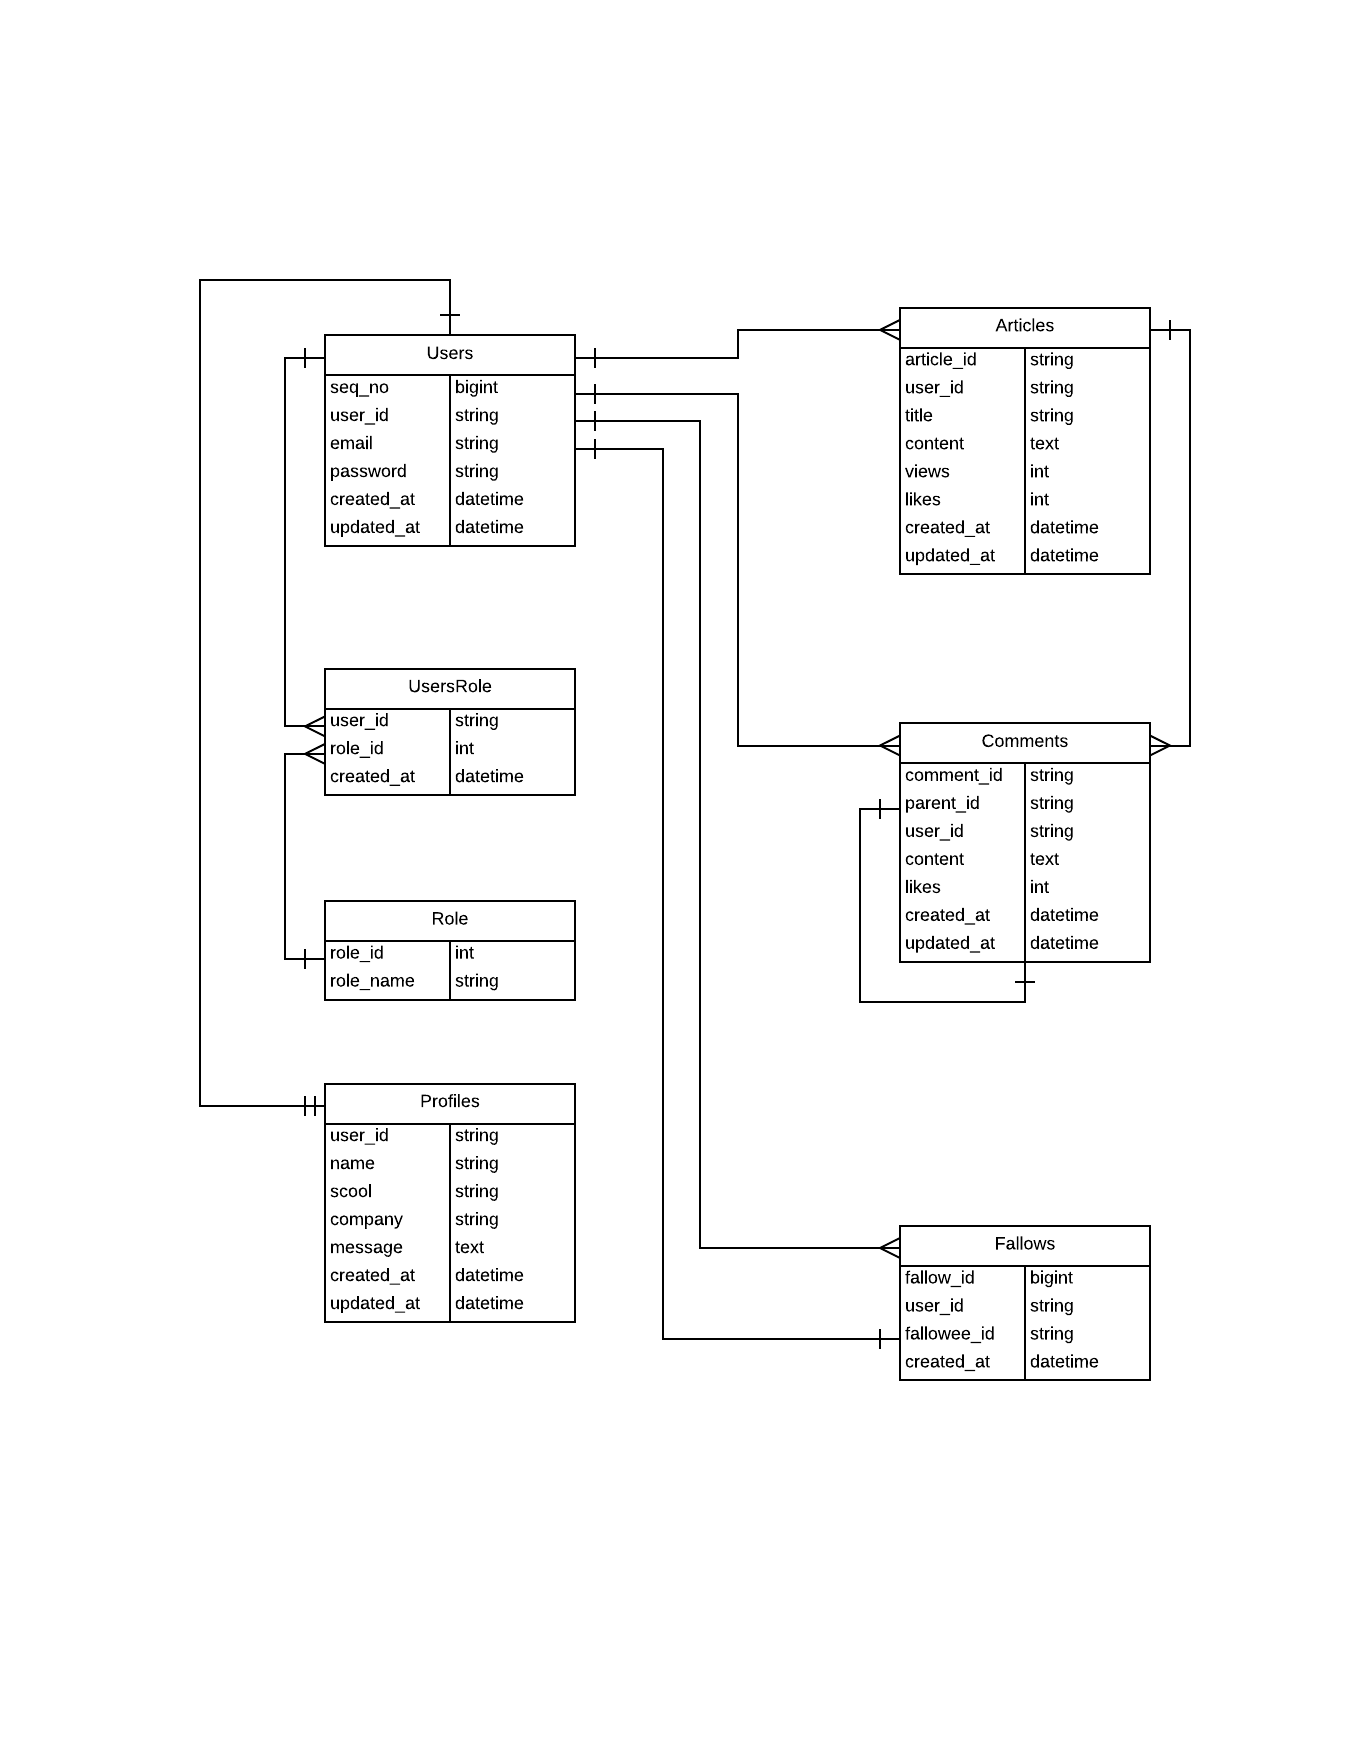
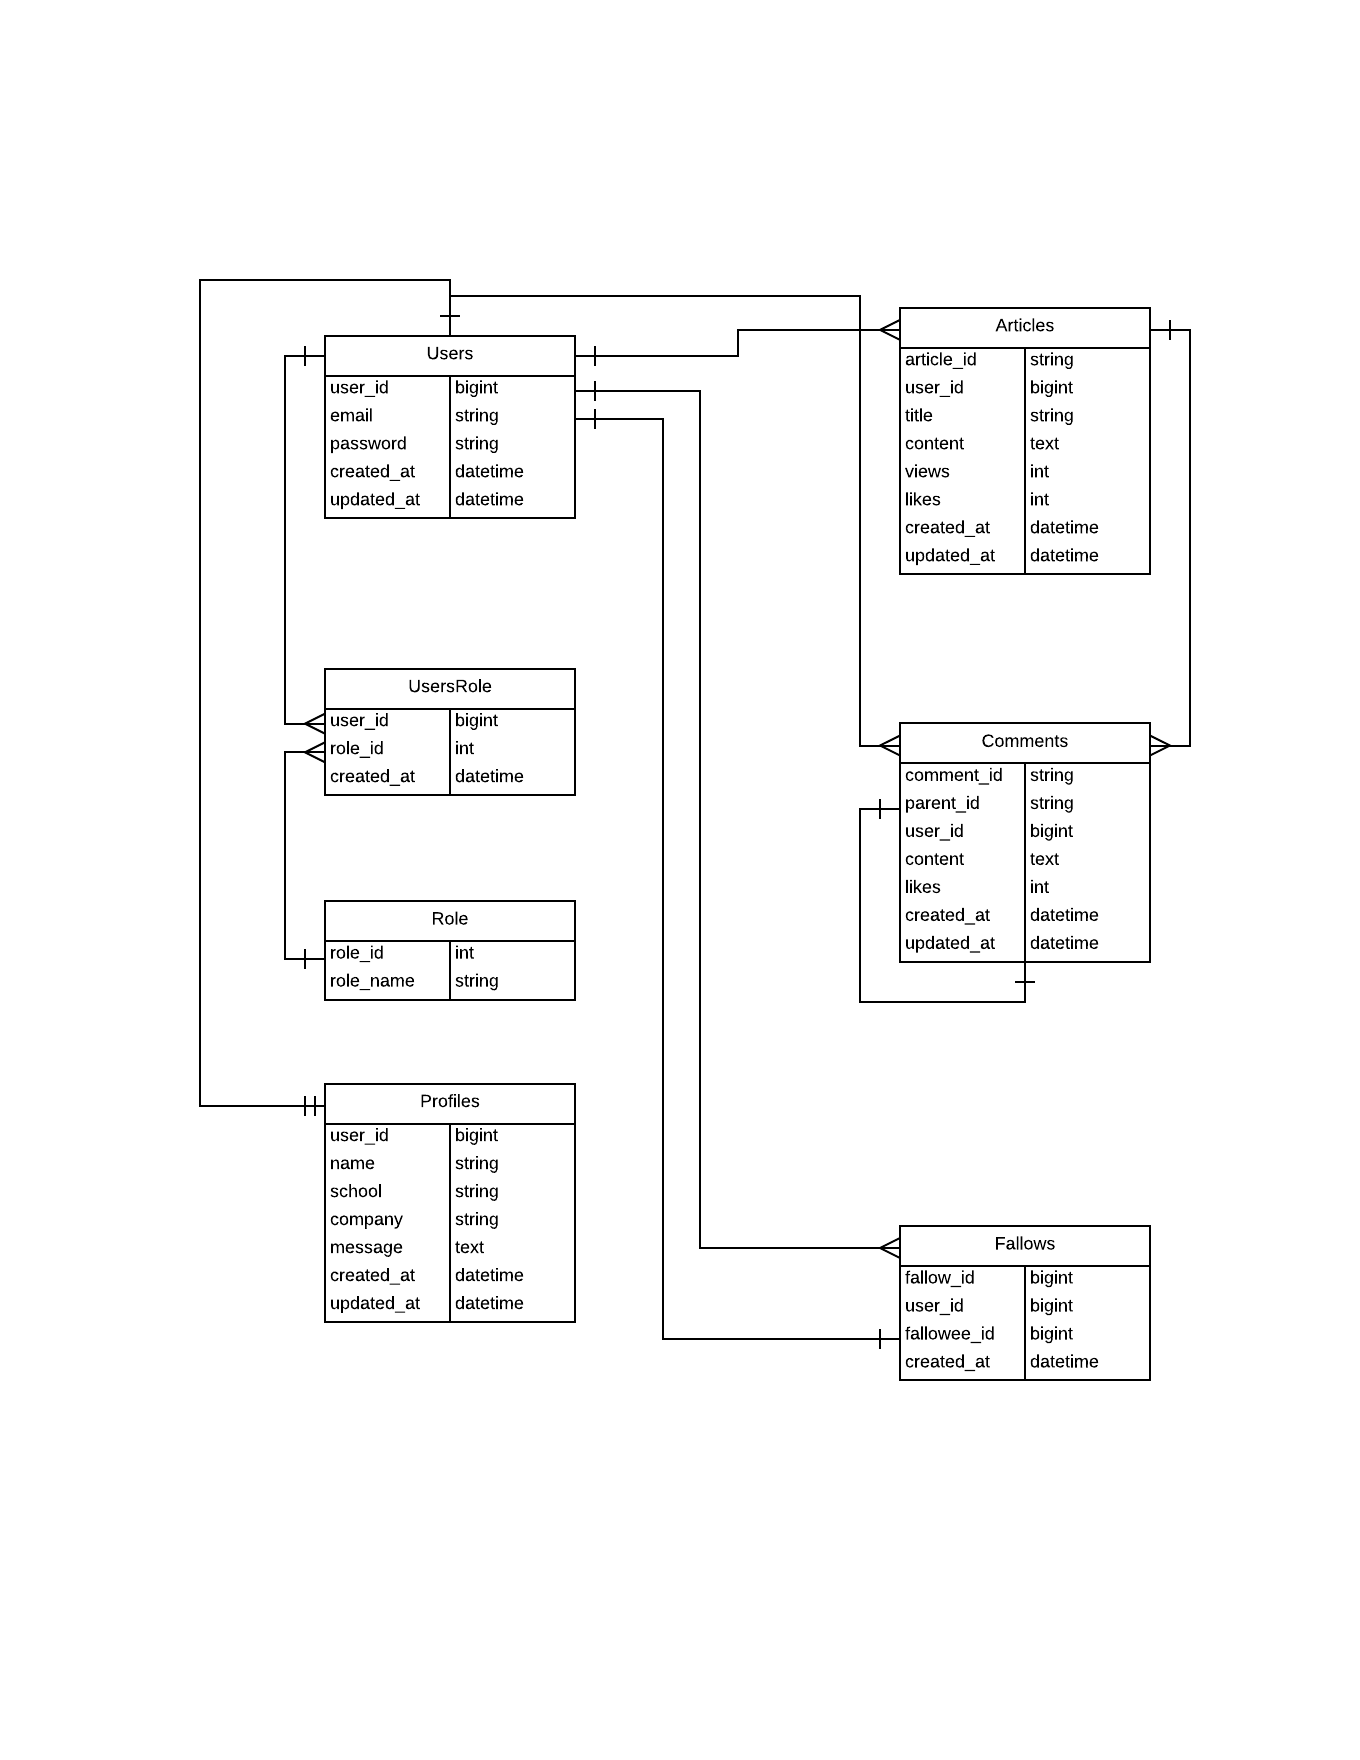
기본 설정 추가

diff --git a/src/test/java/com/yihoyoung/repository/UserRepositoryTest.java b/src/test/java/com/yihoyoung/repository/UserRepositoryTest.java
@@ -1,0 +1,37 @@
+package com.yihoyoung.repository;
+
+import org.junit.Before;
+import org.junit.Test;
+import org.junit.runner.RunWith;
+import org.springframework.beans.factory.annotation.Autowired;
+import org.springframework.boot.test.context.SpringBootTest;
+import org.springframework.test.context.junit4.SpringRunner;
+import com.yihoyoung.domain.User;
+
+import static org.assertj.core.api.Assertions.assertThat;
+
+/**
+ * Created by hoyounglee on 2016. 8. 6..
+ */
+@RunWith(SpringRunner.class)
+@SpringBootTest
+public class UserRepositoryTest {
+    @Autowired
+    public UserRepository userRepository;
+
+    private User user;
+
+    @Before
+    public void setting(){
+        user = new User();
+        user.setUserId(1L);
+        user.setEmail("yihoyoung@nate.com");
+        user.setPassword("password");
+    }
+
+    @Test
+    public void testCreateUser(){
+        User savedUser = userRepository.save(user);
+        assertThat(user).isEqualTo(savedUser);
+    }
+}

diff --git a/src/main/java/com/yihoyoung/domain/Article.java b/src/main/java/com/yihoyoung/domain/Article.java
@@ -1,0 +1,30 @@
+package com.yihoyoung.domain;
+
+import lombok.Data;
+
+import javax.persistence.Entity;
+import javax.persistence.Id;
+import java.sql.Timestamp;
+import java.util.UUID;
+
+/**
+ * Created by hoyounglee on 2016. 8. 6..
+ */
+@Data
+@Entity
+public class Article {
+    @Id
+    String articleId;
+    long userId;
+    String title;
+    String context;
+    int views;
+    int likes;
+    Timestamp createdAt;
+    Timestamp updatedAt;
+
+    public Article(){
+        UUID uuid = UUID.randomUUID();
+        this.articleId = "a" + uuid.toString();
+    }
+}

diff --git a/src/main/java/com/yihoyoung/domain/Comment.java b/src/main/java/com/yihoyoung/domain/Comment.java
@@ -1,0 +1,29 @@
+package com.yihoyoung.domain;
+
+import lombok.Data;
+
+import javax.persistence.Entity;
+import javax.persistence.Id;
+import java.sql.Timestamp;
+import java.util.UUID;
+
+/**
+ * Created by hoyounglee on 2016. 8. 6..
+ */
+@Data
+@Entity
+public class Comment {
+    @Id
+    String commentId;
+    long parentId;
+    long userId;
+    String content;
+    int likes;
+    Timestamp createdAt;
+    Timestamp updatedAt;
+
+    public Comment(){
+        UUID uuid = UUID.randomUUID();
+        this.commentId = "c" + uuid.toString();
+    }
+}

diff --git a/src/main/java/com/yihoyoung/domain/User.java b/src/main/java/com/yihoyoung/domain/User.java
@@ -1,0 +1,27 @@
+package com.yihoyoung.domain;
+
+import lombok.AllArgsConstructor;
+import lombok.Data;
+import lombok.NoArgsConstructor;
+import lombok.ToString;
+
+import javax.persistence.*;
+import java.sql.Timestamp;
+import java.util.UUID;
+
+/**
+ * Created by hoyounglee on 2016. 8. 6..
+ */
+@Data
+@Entity
+@Table(name = "Users")
+@ToString
+public class User {
+    @Id
+    @GeneratedValue(strategy = GenerationType.AUTO)
+    Long userId;
+    String email;
+    String password;
+    Timestamp createdAt;
+    Timestamp updatedAt;
+}

diff --git a/src/main/java/com/yihoyoung/domain/Profile.java b/src/main/java/com/yihoyoung/domain/Profile.java
@@ -1,0 +1,23 @@
+package com.yihoyoung.domain;
+
+import lombok.Data;
+
+import javax.persistence.Entity;
+import javax.persistence.Id;
+import java.sql.Timestamp;
+
+/**
+ * Created by hoyounglee on 2016. 8. 6..
+ */
+@Data
+@Entity
+public class Profile {
+    @Id
+    long userId;
+    String name;
+    String school;
+    String company;
+    String message;
+    Timestamp createdAt;
+    Timestamp updatedAt;
+}

diff --git a/src/test/java/com/yihoyoung/domain/UserTest.java b/src/test/java/com/yihoyoung/domain/UserTest.java
@@ -1,0 +1,17 @@
+package com.yihoyoung.domain;
+
+import org.junit.Test;
+import static org.assertj.core.api.Assertions.*;
+
+/**
+ * Created by hoyounglee on 2016. 8. 6..
+ */
+public class UserTest {
+    @Test
+    public void testUserSet(){
+        String email = "james@sample.com";
+        User user = new User();
+        user.setEmail(email);
+        assertThat(email).isEqualTo(user.getEmail());
+    }
+}

diff --git a/src/main/java/com/yihoyoung/domain/Fallow.java b/src/main/java/com/yihoyoung/domain/Fallow.java
@@ -1,0 +1,17 @@
+package com.yihoyoung.domain;
+
+import javax.persistence.GeneratedValue;
+import javax.persistence.GenerationType;
+import javax.persistence.Id;
+import java.sql.Timestamp;
+
+/**
+ * Created by hoyounglee on 2016. 8. 6..
+ */
+public class Fallow {
+    @Id @GeneratedValue(strategy = GenerationType.AUTO)
+    long fallowId;
+    long userId;
+    long falloweeId;
+    Timestamp createdAt;
+}

diff --git a/src/main/java/com/yihoyoung/domain/Role.java b/src/main/java/com/yihoyoung/domain/Role.java
@@ -1,0 +1,21 @@
+package com.yihoyoung.domain;
+
+import lombok.AllArgsConstructor;
+import lombok.Data;
+import lombok.NoArgsConstructor;
+
+import javax.persistence.Entity;
+import javax.persistence.Id;
+
+/**
+ * Created by hoyounglee on 2016. 8. 6..
+ */
+@Data
+@NoArgsConstructor
+@AllArgsConstructor
+@Entity
+public class Role {
+    @Id
+    int roleId;
+    String roleName;
+}

diff --git a/src/main/java/com/yihoyoung/domain/UsersRole.java b/src/main/java/com/yihoyoung/domain/UsersRole.java
@@ -1,0 +1,20 @@
+package com.yihoyoung.domain;
+
+import lombok.Data;
+
+import javax.persistence.Entity;
+import javax.persistence.Id;
+import java.sql.Timestamp;
+
+/**
+ * Created by hoyounglee on 2016. 8. 6..
+ */
+@Data
+@Entity
+public class UsersRole {
+    @Id
+    long id;
+    long userId;
+    int roleId;
+    Timestamp createdAt;
+}

diff --git a/src/main/java/com/yihoyoung/repository/UserRepository.java b/src/main/java/com/yihoyoung/repository/UserRepository.java
@@ -1,0 +1,9 @@
+package com.yihoyoung.repository;
+
+import org.springframework.data.jpa.repository.JpaRepository;
+import com.yihoyoung.domain.User;
+/**
+ * Created by hoyounglee on 2016. 8. 6..
+ */
+public interface UserRepository extends JpaRepository<User, Long> {
+}
